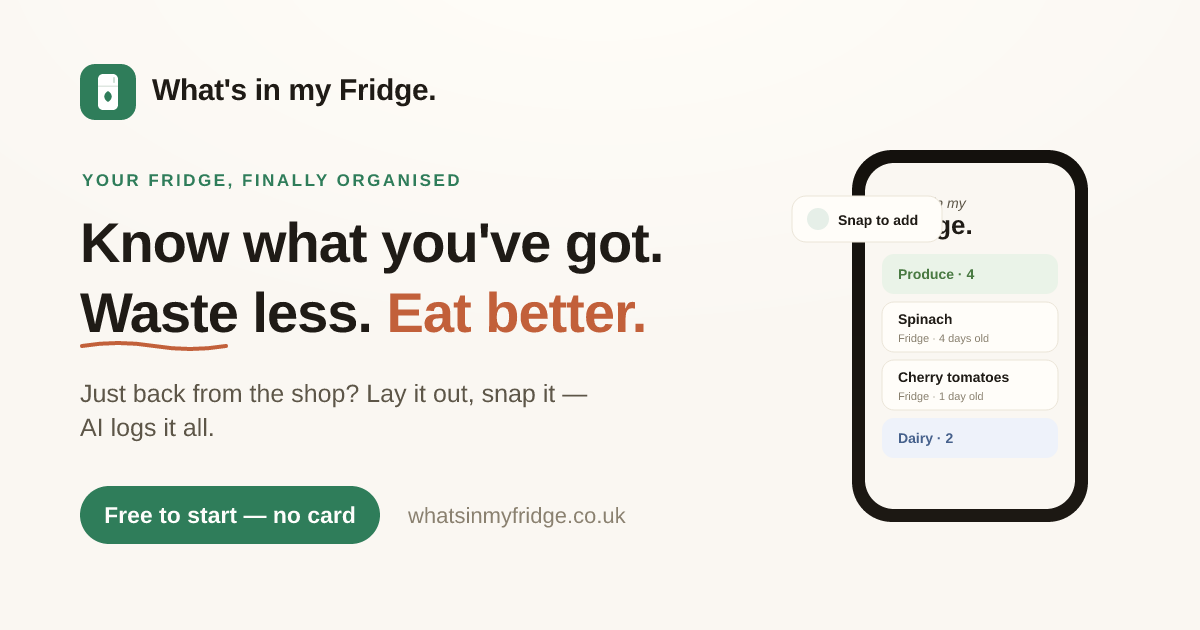
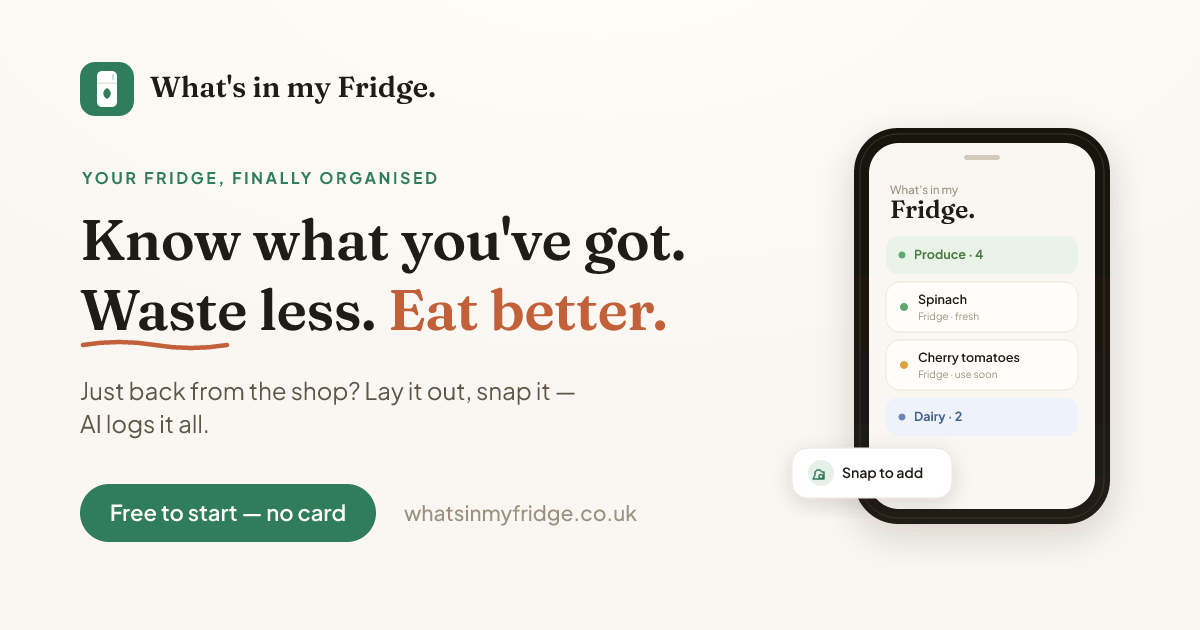
Polish OG image: Fraunces headline + cleaner phone mockup
Embed the real brand fonts (Fraunces for the headline, Plus Jakarta Sans for
body) instead of a system serif, and redesign the phone (freshness dots, clean
cards, repositioned chip). Bump og:image to ?v=3 to refresh social caches.

diff --git a/site/index.html b/site/index.html
@@ -16,11 +16,11 @@
   <meta property="og:description" content="Snap your fridge or a receipt and AI logs everything — track freshness, get dinner ideas, waste less." />
   <meta property="og:type" content="website" />
   <meta property="og:url" content="https://www.whatsinmyfridge.co.uk/" />
-  <meta property="og:image" content="https://www.whatsinmyfridge.co.uk/og.png?v=2" />
+  <meta property="og:image" content="https://www.whatsinmyfridge.co.uk/og.png?v=3" />
   <meta name="twitter:card" content="summary_large_image" />
   <meta name="twitter:title" content="What's in my Fridge" />
   <meta name="twitter:description" content="Snap your fridge or a receipt and AI logs everything — track freshness, get dinner ideas, waste less." />
-  <meta name="twitter:image" content="https://www.whatsinmyfridge.co.uk/og.png?v=2" />
+  <meta name="twitter:image" content="https://www.whatsinmyfridge.co.uk/og.png?v=3" />
   <link rel="canonical" href="https://www.whatsinmyfridge.co.uk/" />
   <!-- Google Search Console: paste your verification token below and uncomment.
        (Or verify the whole domain via a DNS TXT record in GoDaddy — recommended.)

diff --git a/index.html b/index.html
@@ -20,11 +20,11 @@
     <meta property="og:type" content="website" />
     <meta property="og:site_name" content="What's in my Fridge" />
     <meta property="og:url" content="https://app.whatsinmyfridge.co.uk/" />
-    <meta property="og:image" content="https://www.whatsinmyfridge.co.uk/og.png?v=2" />
+    <meta property="og:image" content="https://www.whatsinmyfridge.co.uk/og.png?v=3" />
     <meta name="twitter:card" content="summary_large_image" />
     <meta name="twitter:title" content="What's in my Fridge" />
     <meta name="twitter:description" content="Snap your shopping or a receipt and AI logs everything — track freshness, get dinner ideas, waste less." />
-    <meta name="twitter:image" content="https://www.whatsinmyfridge.co.uk/og.png?v=2" />
+    <meta name="twitter:image" content="https://www.whatsinmyfridge.co.uk/og.png?v=3" />
     <title>What's in my Fridge.</title>
     <link rel="preconnect" href="https://fonts.googleapis.com" />
     <link rel="preconnect" href="https://fonts.gstatic.com" crossorigin />
